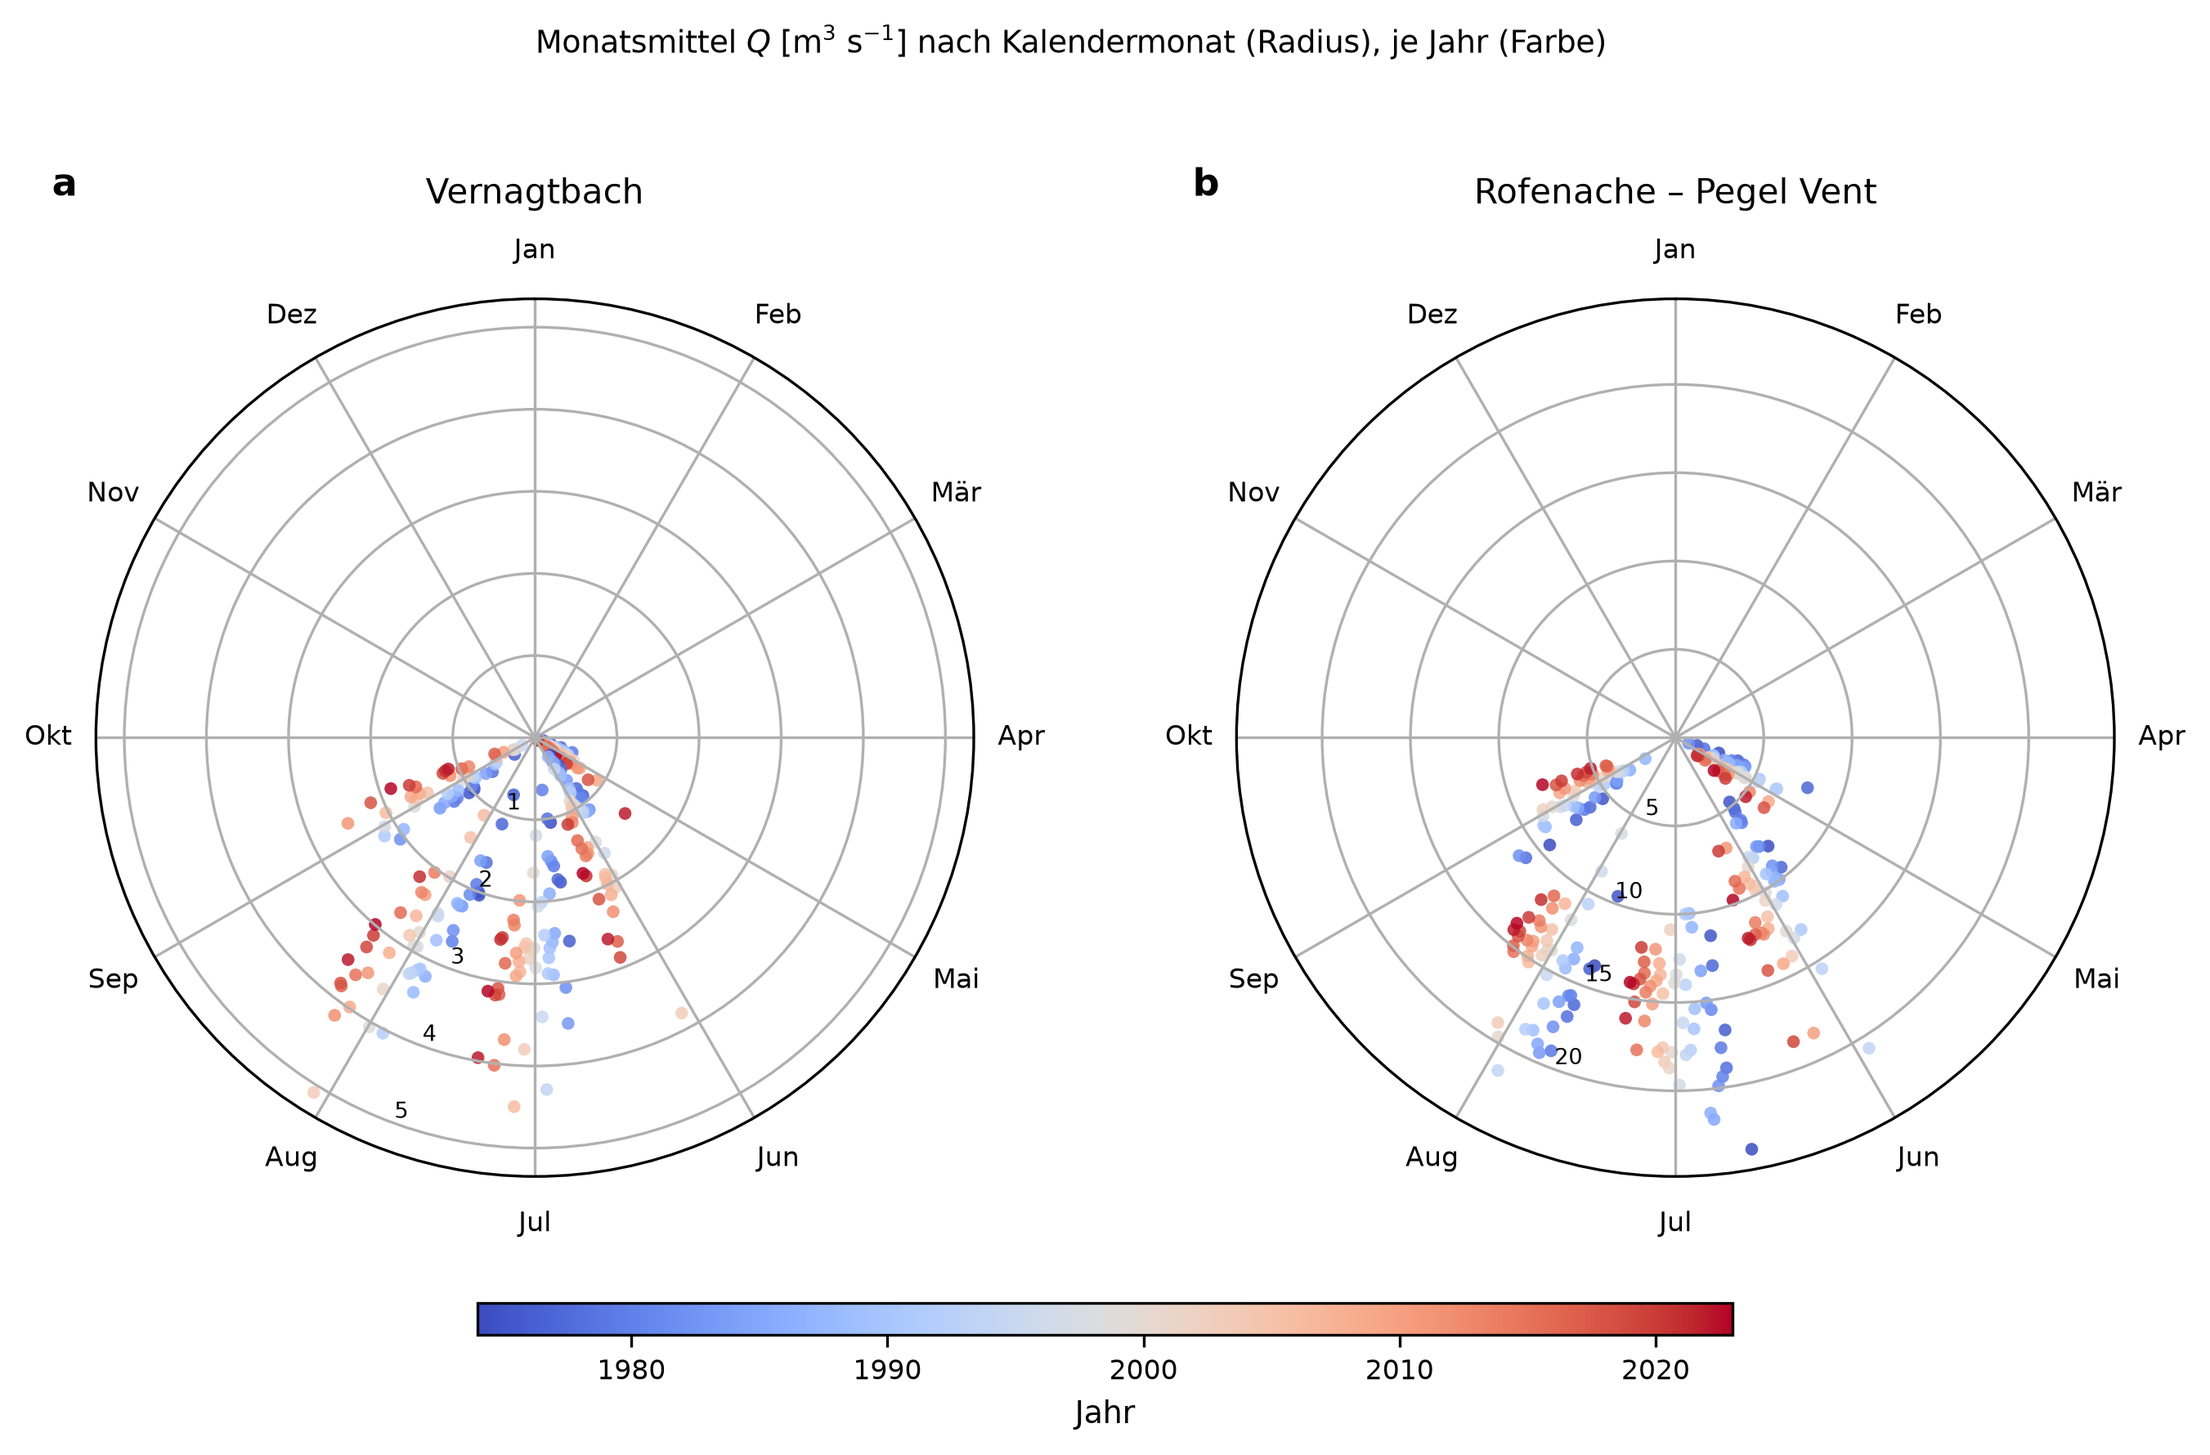
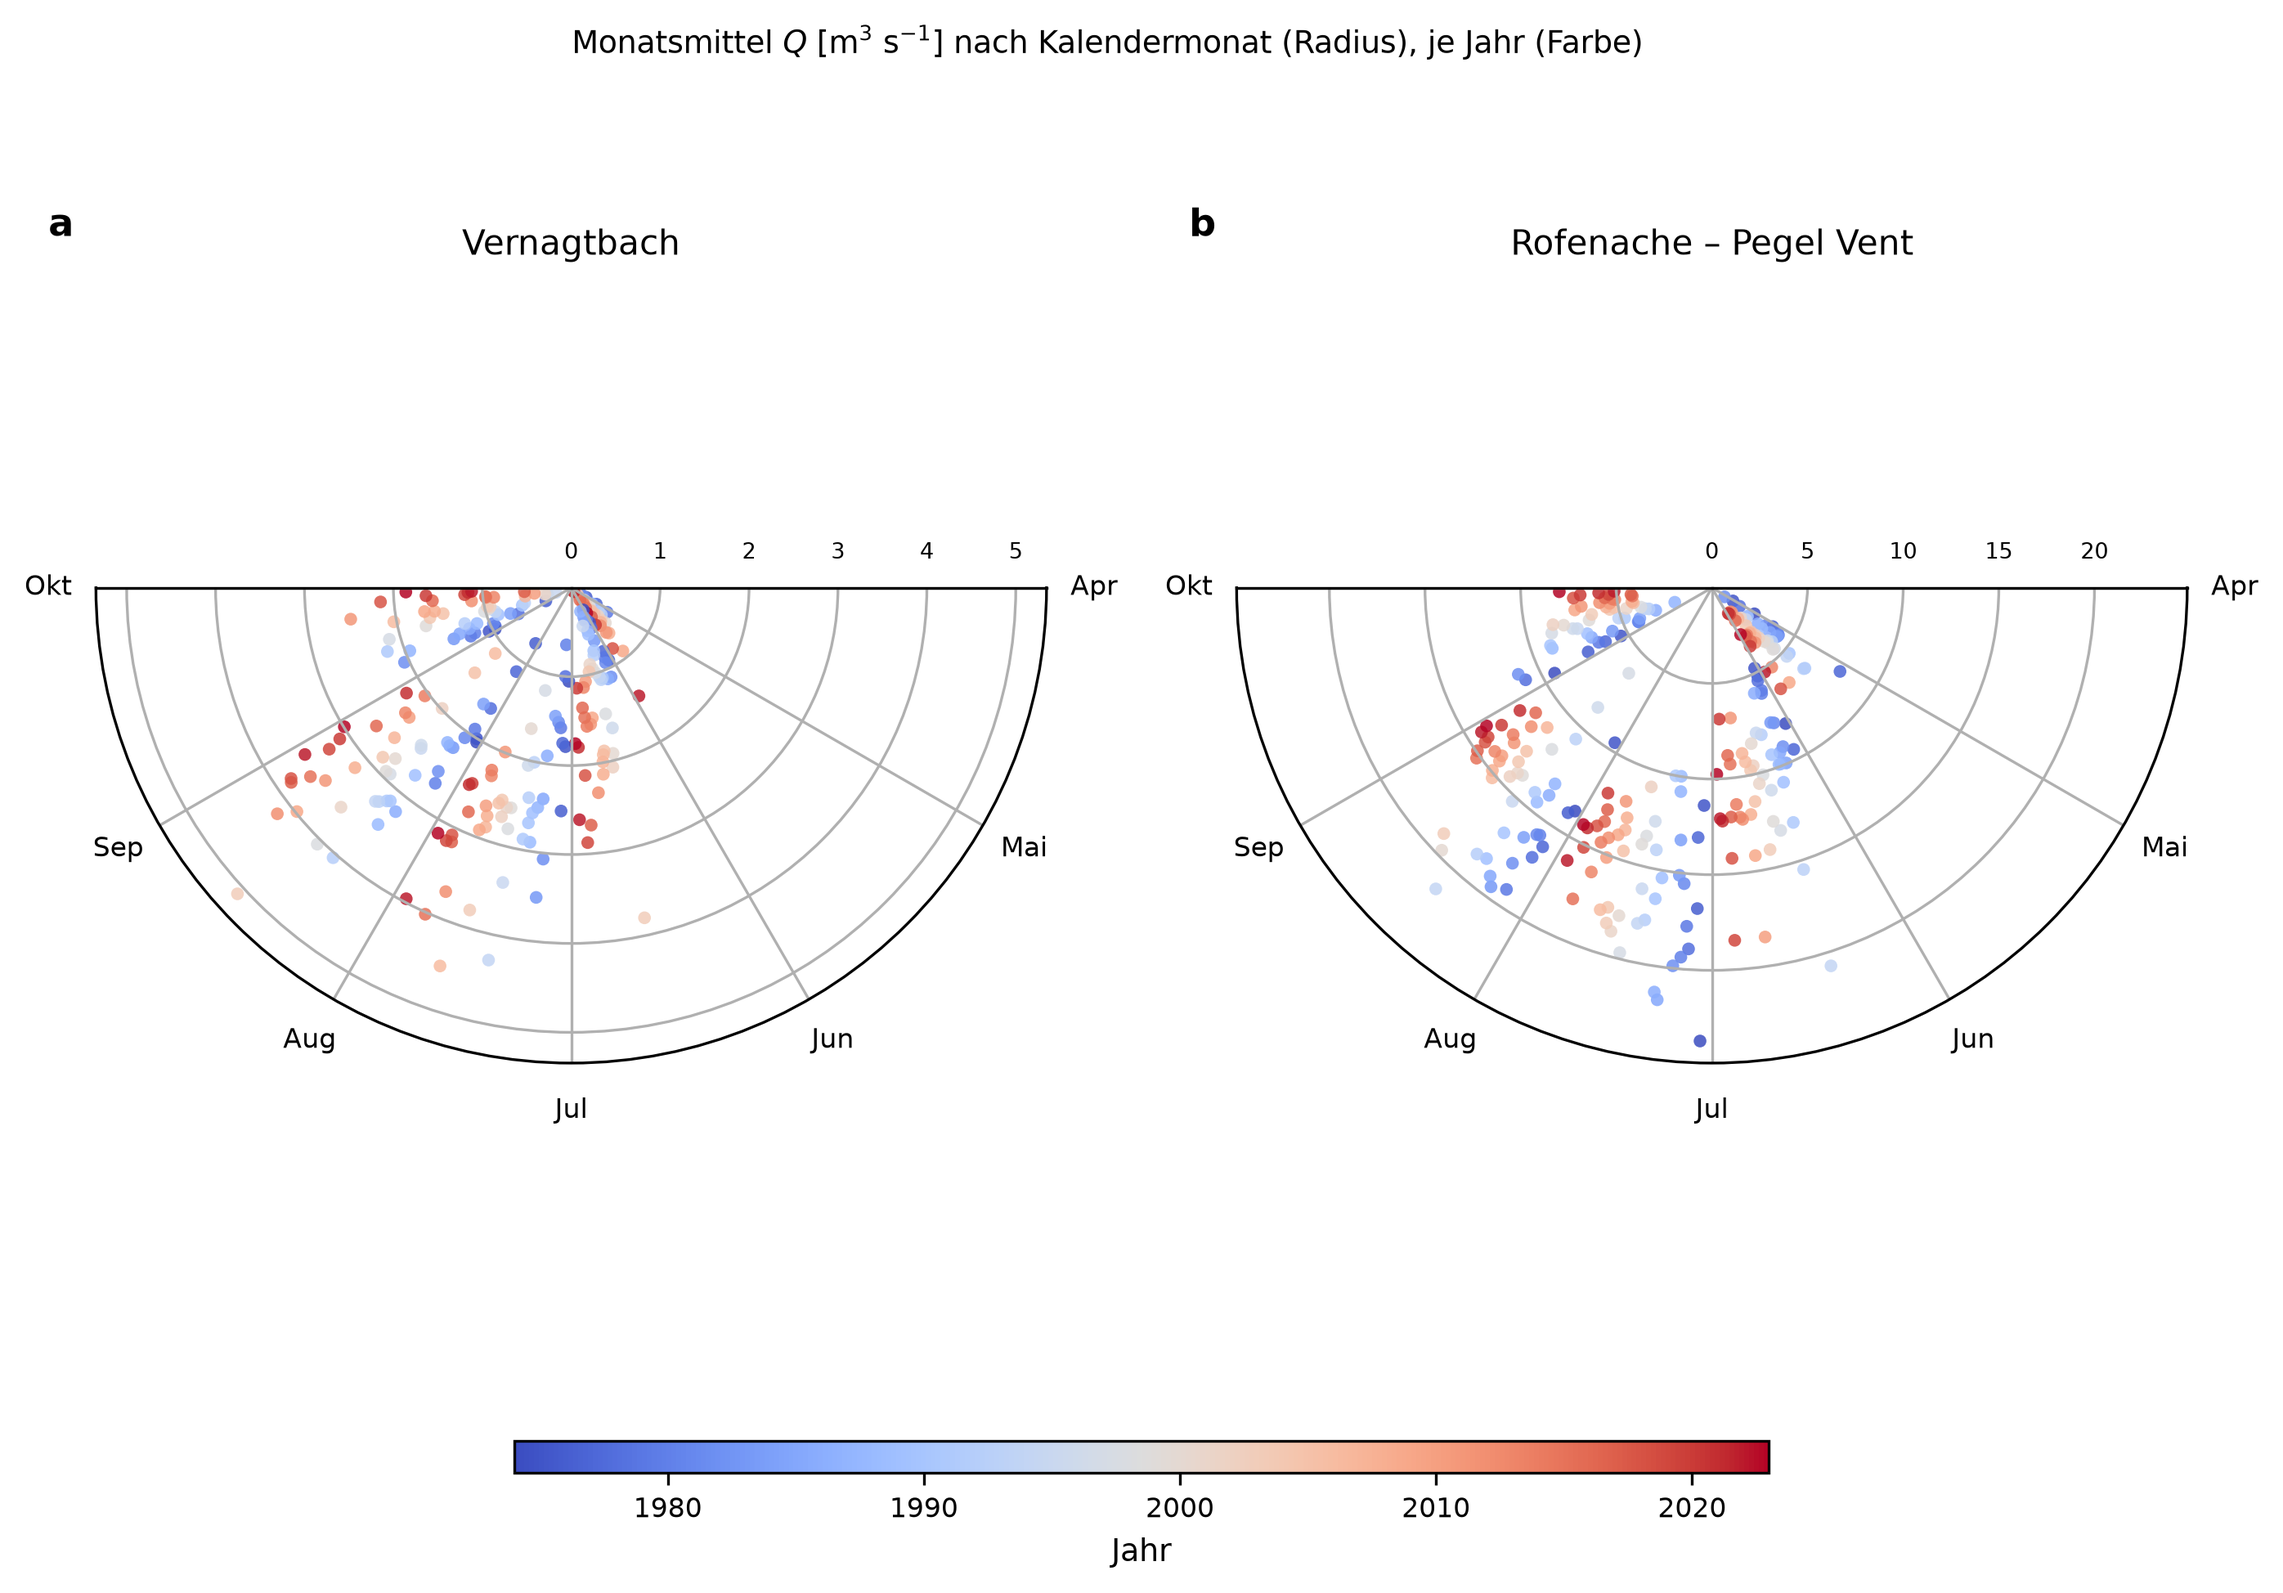
fig15: fill full month sectors instead of narrow fans, crop to half-circle
Each month's points now span the full 30° sector between its own
gridline and the next month's (not a narrow fan centered on the line).
Cropped the view to the Apr-Oct half-circle since the rest is always
empty - fixed a matplotlib ordering bug where set_thetagrids() was
silently resetting the thetamin/thetamax crop back to the full circle.

diff --git a/scripts/04_make_figures.py b/scripts/04_make_figures.py
@@ -613,12 +613,12 @@ def fig_monthly_magnitude_by_period(df):
 
 # --------------------------------------------------------------- Figure 15 --
 def fig_monthly_circular_scatter(df):
-    """Polar scatter: angle = calendar month (Jan at top, clockwise, all 12
-    months shown for context even though data only exists for May-Sep),
-    radius = that year's mean Q for the month, colour = year (blue 1974 to
-    red 2023). Within each month's angular slice, years are fanned out by a
-    small offset (not jittered randomly) so the time ordering is still
-    readable instead of all 50 points stacking on one spoke."""
+    """Polar scatter: angle = calendar month (Jan at top, clockwise), radius
+    = that year's mean Q for the month, colour = year (blue 1974 to red
+    2023). Each month fills the full sector between its own gridline and the
+    next month's gridline (not a narrow fan centered on the line), and the
+    view is cropped to the Apr-Oct half-circle since the other half is
+    always empty (no data outside May-Sep)."""
     d = df.copy()
     d["month"] = d["time"].dt.month
     d["year"] = d["time"].dt.year
@@ -628,26 +628,31 @@ def fig_monthly_circular_scatter(df):
     year_min, year_max = int(d["year"].min()), int(d["year"].max())
     norm = mcolors.Normalize(vmin=year_min, vmax=year_max)
     cmap = plt.get_cmap("coolwarm")
-    slice_width = (2 * np.pi / 12) * 0.7  # fan width within each month's sector, in radians
 
-    fig, axes = plt.subplots(1, 2, figsize=(11, 5.6), dpi=300, subplot_kw={"projection": "polar"})
+    fig, axes = plt.subplots(1, 2, figsize=(11, 6.2), dpi=300, subplot_kw={"projection": "polar"})
     for ax, (col, title, lab) in zip(axes, panels):
         sub = d.dropna(subset=[col])
         month_means = sub.groupby(["year", "month"])[col].mean().reset_index()
         for m in months:
             msub = month_means[month_means["month"] == m].sort_values("year")
-            base_theta = 2 * np.pi * (m - 1) / 12
-            offsets = np.linspace(-0.5, 0.5, len(msub)) * slice_width
-            thetas = base_theta + offsets
+            sector_start = 2 * np.pi * (m - 1) / 12
+            sector_width = 2 * np.pi / 12
+            # spread across 5%-95% of the sector so points don't sit on the gridlines
+            fracs = np.linspace(0.05, 0.95, len(msub))
+            thetas = sector_start + fracs * sector_width
             colors = [cmap(norm(y)) for y in msub["year"]]
             ax.scatter(thetas, msub[col].values, c=colors, s=14, alpha=0.85, linewidths=0)
         ax.set_theta_zero_location("N")
         ax.set_theta_direction(-1)
+        # set_thetagrids resets thetamin/thetamax internally, so it must come
+        # first - otherwise the Apr-Oct crop below silently gets undone.
         ax.set_thetagrids([2 * np.pi * (m - 1) / 12 * 180 / np.pi for m in range(1, 13)],
                            labels=[MONTH_ABBR_DE[m] for m in range(1, 13)], fontsize=8)
+        ax.set_thetamin(90)   # Apr
+        ax.set_thetamax(270)  # Oct
         ax.set_title(title, fontsize=10, pad=28)
         ax.text(-0.05, 1.15, lab, transform=ax.transAxes, fontsize=11, fontweight="bold", va="top")
-        ax.set_rlabel_position(200)
+        ax.set_rlabel_position(0)
         ax.tick_params(axis="y", labelsize=6.5)
 
     sm = plt.cm.ScalarMappable(cmap=cmap, norm=norm)
